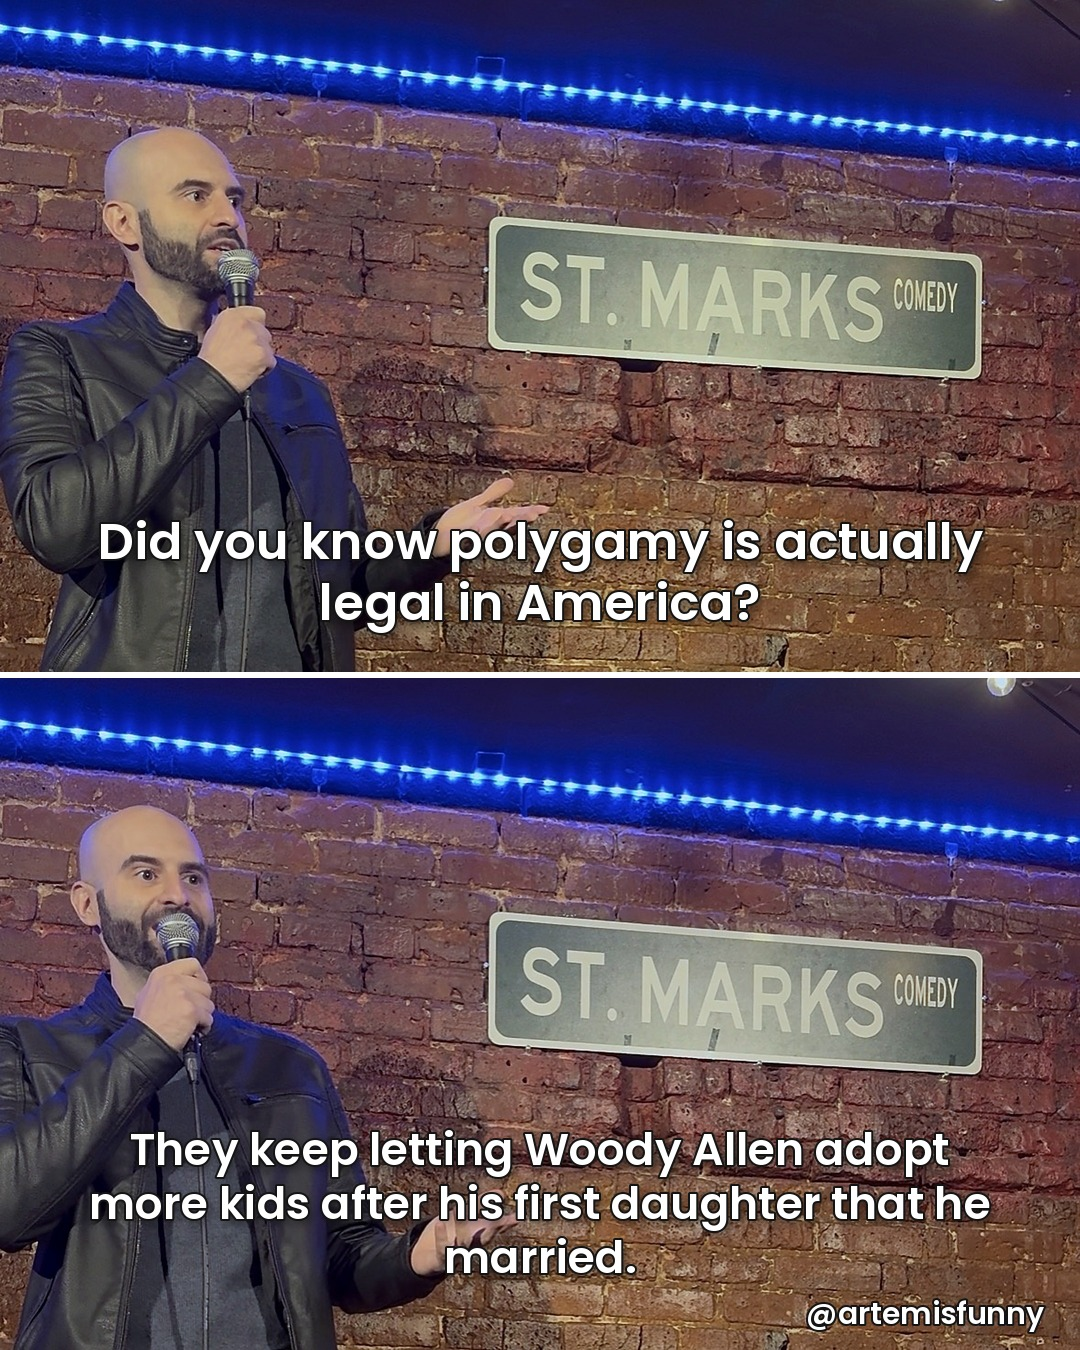
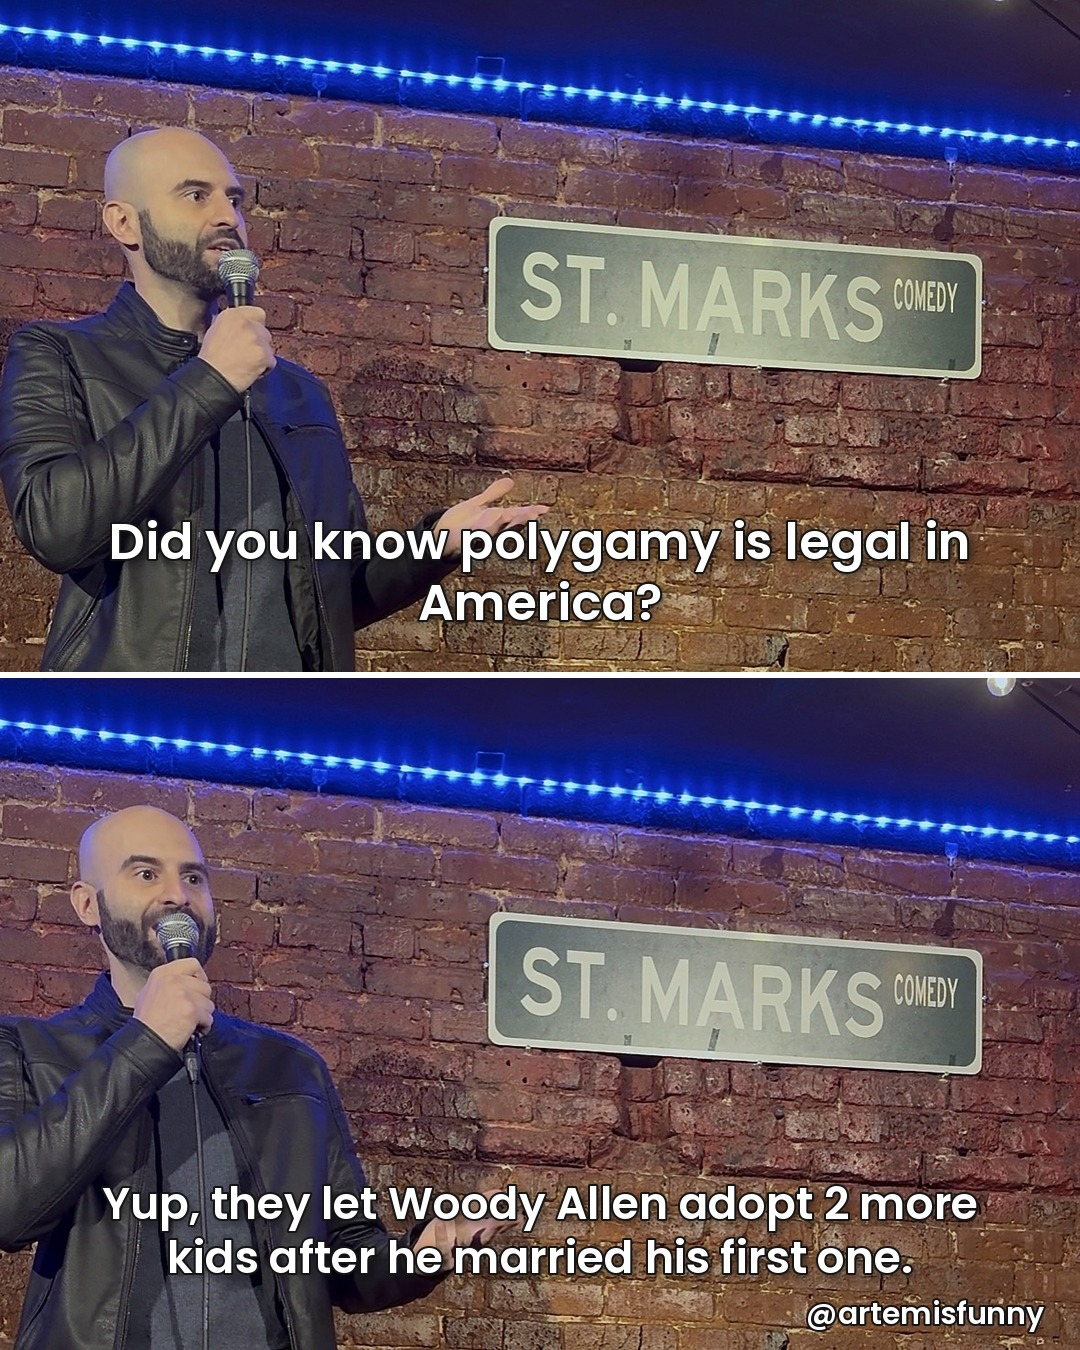
Legal Polygamy: Artem's tightened wording
Claude-Session: https://claude.ai/code/session_01EF93tfxUuMCYzNZMZAUpcb

Changed region(s): [[0.0611, 0.84, 0.9167, 0.9644], [0.0917, 0.3733, 0.9167, 0.4978]]

diff --git a/joke-carousels/captions-legal-polygamy.md b/joke-carousels/captions-legal-polygamy.md
@@ -2,7 +2,7 @@
 
 Build: `python3 joke-carousels/split_posts.py joke-carousels/legal_polygamy.json`
 
-Wording is the stage version from Culture Shock St Marks, 6/16/26: "did you know polygamy is actually legal in America... they keep letting Woody Allen adopt more kids after his first daughter that he married." The recap he did after the laugh is left out. The Notion row links an older IG clip of this joke (DXsUkddiqK-), and Artem said 2026-10-31 that posting it again is fine.
+Wording is Artem's own (2026-10-31), tightened from the 6/16/26 Culture Shock St Marks stage version: "Did you know polygamy is legal in America? / Yup, they let Woody Allen adopt 2 more kids after he married his first one." The 2 is accurate (Bechet and Manzie). The Notion row links an older IG clip of this joke (DXsUkddiqK-), and Artem said 2026-10-31 that posting it again is fine.
 
 Background: St Marks Comedy, 04/08/26, real photos from @thegetitgoingmic. Neutral IMG_0546 / smile IMG_0551 (Dark Jokes used 0549/0554). Mic at his mouth in both.
 
